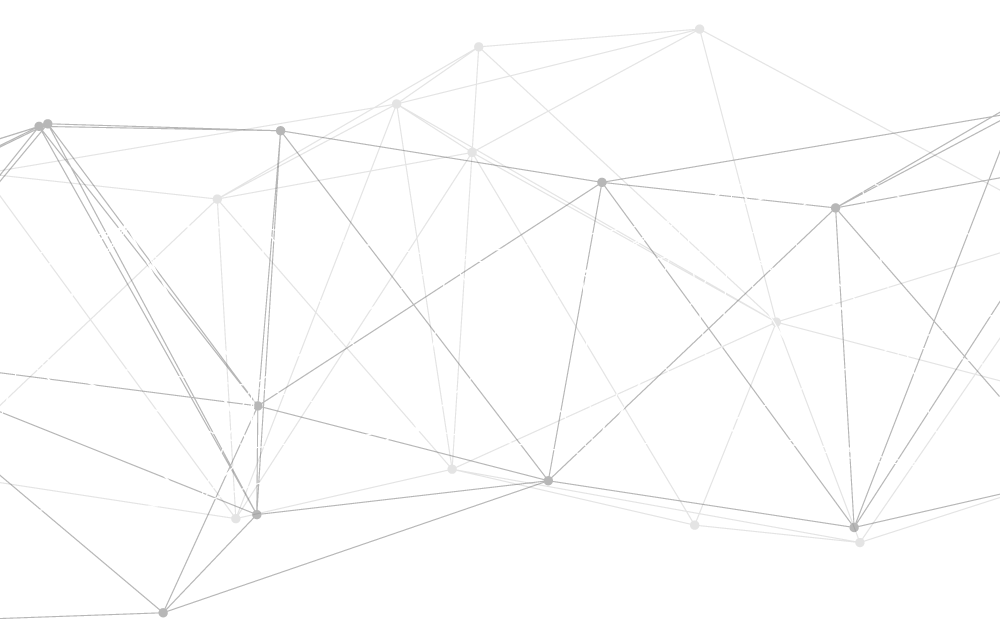
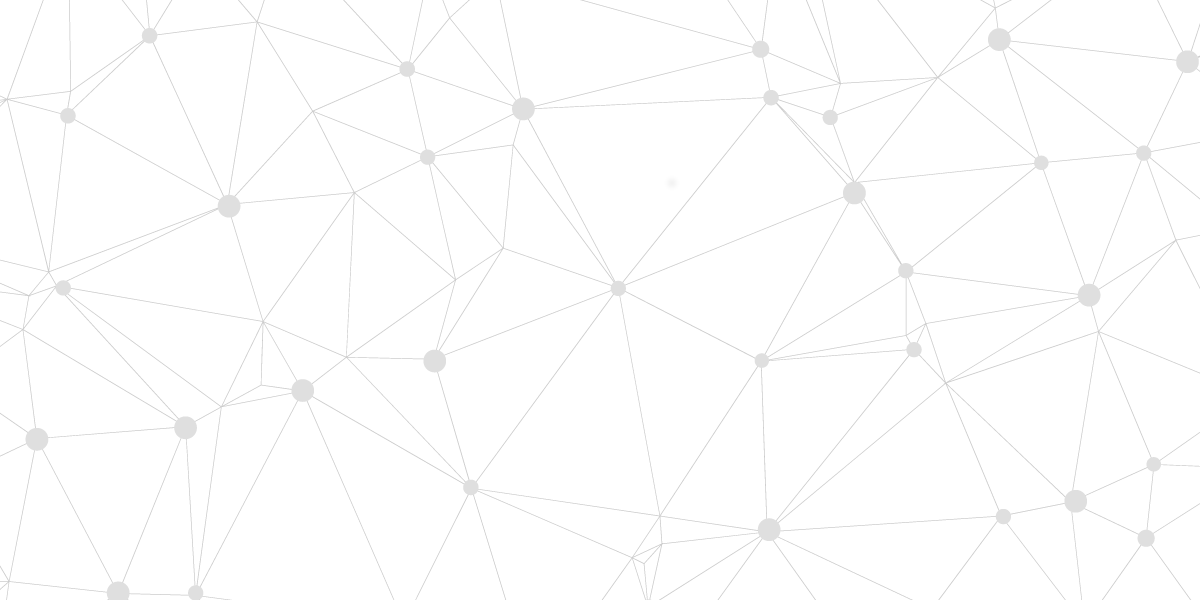
img footer

diff --git a/src/app/components/contacto/contacto.component.html b/src/app/components/contacto/contacto.component.html
@@ -2,7 +2,7 @@
     <div class="container container-footer">
       <div class="row img-background">
         <h3 class="text-center">Envianos un mail para ofrecerte el mejor servicio.</h3>
-        <div class="col-md-6 col-sm-12 info-contact">
+        <div class="col-md-5 col-md-offset-1 col-sm-12 info-contact">
           <img src="assets/img/logo-footer.png" alt="">
           <h3 class="info">INFORMACIÓN DE CONTACTO</h3>
           <ul>
@@ -11,7 +11,7 @@
             <li><b>skype:</b> easycast</li>
           </ul>
         </div>
-        <div class="col-md-6 col-sm-12 ">
+        <div class="col-md-5 col-sm-12 ">
           <form action="" class="header-content-inner">
             <input type="text" placeholder="Nombre" name="name" required>
             <input type="email" placeholder="Email" name="email" required>

diff --git a/src/styles.css b/src/styles.css
@@ -310,7 +310,7 @@ textarea {
 }
 
 .container-footer{
-  background-image: url(assets/img/background-contacto.png);
+  background-image: url(assets/img/background-contact.png);
   background-repeat: no-repeat;
   background-position: center center;
   width: 100%;
